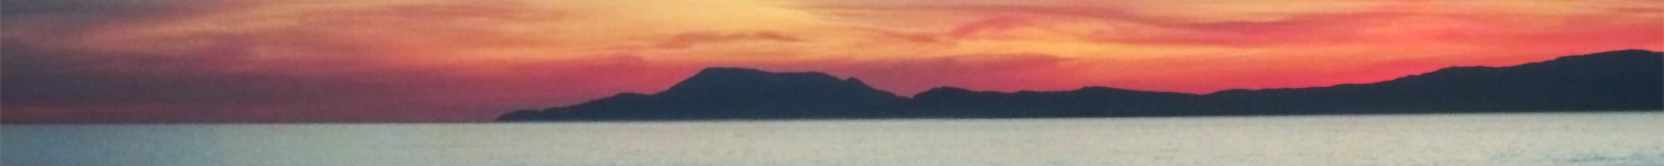
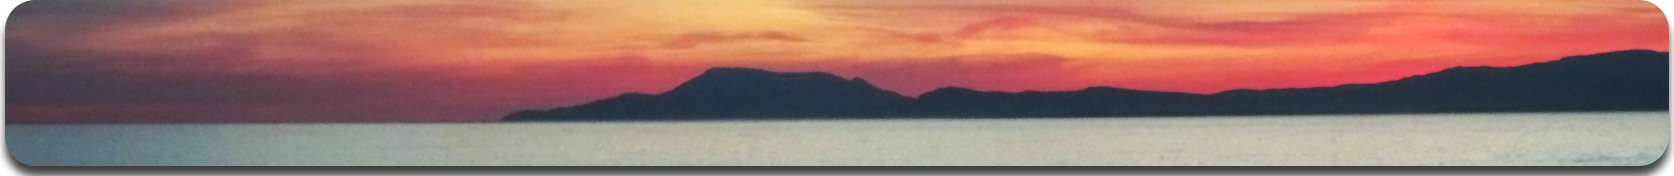
Updates

diff --git a/404.html b/404.html
@@ -7,34 +7,41 @@
 	<meta charset="utf-8">
 	<meta http-equiv="X-UA-Compatible" content="IE=edge,chrome=1">
 
-	<title>Atlantic Way Apartments - 404</title>
-	<meta name="Atlantic Way Apartments - 404" content="">
+	<title>Atlantic Way Apartments - {{ page.title }}</title>
+	<meta name="Atlantic Way Apartments - {{ page.title }}" content="">
 	<meta name="Paul Burke" content="">
 
 	<meta name="viewport" content="width=device-width">
 
-	<link rel="stylesheet" href="css/style.css">
+	<link rel="stylesheet" href="http://atlanticway.info/css/style.css">
+	<link rel="stylesheet" type="text/css" href="http://atlanticway.info/css/skin.css" />
 
-	<script src="js/libs/modernizr-2.5.3-respond-1.1.0.min.js"></script>
+	<script type="text/javascript" src="http://atlanticway.info/js/libs/jquery-1.4.2.min.js"></script>
+	<script type="text/javascript" src="http://atlanticway.info/js/libs/jquery.jcarousel.min.js"></script>
+	<script type="text/javascript" src="http://atlanticway.info/js/libs/modernizr-2.5.3-respond-1.1.0.min.js"></script>
+
 </head>
 <body>
 <!--[if lt IE 7]><p class=chromeframe>Your browser is <em>ancient!</em> <a href="http://browsehappy.com/">Upgrade to a different browser</a> or <a href="http://www.google.com/chromeframe/?redirect=true">install Google Chrome Frame</a> to experience this site.</p><![endif]-->
 
 	<div id="header-container">
 		<header class="wrapper clearfix">
-			<a href="index.html"><h1 id="title">Atlantic Way Apartments</h1></a>
+			<a href="http://atlanticway.info/index.html"><h1 id="title">Atlantic Way Apartments</h1></a>
 			<nav>
 				<ul>
-					<li><a href="news.html">News</a></li>
-					<li><a href="events.html">Events</a></li>
-					<li><a href="cameras.html">Cameras</a></li>
+					<li><a href="http://atlanticway.info/news.html">News</a></li>
+					<li><a href="http://atlanticway.info/events.html">Events</a></li>
+					<li><a href="http://atlanticway.info/cameras.html">Cameras</a></li>
 				</ul>
 			</nav>
 		</header>
 	</div>
 	<div id="main-container">
+
 		<div id="main" class="wrapper clearfix">
-			
+					<div id="header-picture">
+						<pic><img src="http://atlanticway.info/img/header.png" alt="Slieve League" align="center" width = "100%" /></pic>
+					</div>
 			<article>
 				<header>
 					<h1>Wrong Turn</h1>
@@ -42,27 +49,35 @@
 				<header>
 			</article>
 			
-			<aside>
-				<h3>aside</h3>
-				<p>Lorem ipsum dolor sit amet, consectetur adipiscing elit. Aliquam sodales urna non odio egestas tempor. Nunc vel vehicula ante. Etiam bibendum iaculis libero, eget molestie nisl pharetra in. In semper consequat est, eu porta velit mollis nec. Curabitur posuere enim eget turpis feugiat tempor. Etiam ullamcorper lorem dapibus velit suscipit ultrices.</p>
-			</aside>
-			
+			{% for post in site.posts %}
+   				{% if post.categories contains 'event' %}
+					</br>
+					<aside>
+					<h2><a href="{{ post.url }}">{{ post.date }}</a></h2>
+						{{ post.title }}
+					</aside>
+			  	{% endif %}
+			{%endfor%}
+
+
+				{{ content }}			
 		</div> <!-- #main -->
+		<div class="clearfooter"></div>
 	</div> <!-- #main-container -->
 
 	<div id="footer-container">
 		<footer class="wrapper">
 			<div align="right">
-				<a href="http://www.github.com" target="_blank"><img src="img/github.png" alt="Github"/></a>
-				<a href="http://jekyllrb.com/" target="_blank"><img src="img/jekyll.png" alt="Jekyll" /></a>
+				<a href="http://www.github.com" target="_blank"><img src="http://atlanticway.info/img/github.png" alt="Github"/></a>
+				<a href="http://jekyllrb.com/" target="_blank"><img src="http://atlanticway.info/img/jekyll.png" alt="Jekyll" /></a>
 				<h4>Designed by Paul Burke</h4>
 			</div>
 		</footer>
 	</div>
 
 <script src="//ajax.googleapis.com/ajax/libs/jquery/1.7.2/jquery.min.js"></script>
-<script>window.jQuery || document.write('<script src="js/libs/jquery-1.7.2.min.js"><\/script>')</script>
+<script>window.jQuery || document.write('<script src="http://atlanticway.info/js/libs/jquery-1.7.2.min.js"><\/script>')</script>
 
-<script src="js/script.js"></script>
+<script src="http://atlanticway.info/js/script.js"></script>
 </body>
 </html>

diff --git a/2012/02/15/First-Order-of-Business/index.html b/2012/02/15/First-Order-of-Business/index.html
@@ -29,9 +29,9 @@
 			<a href="http://atlanticway.info/index.html"><h1 id="title">Atlantic Way Apartments</h1></a>
 			<nav>
 				<ul>
-					<li><a href="news.html">News</a></li>
-					<li><a href="events.html">Events</a></li>
-					<li><a href="cameras.html">Cameras</a></li>
+					<li><a href="http://atlanticway.info/news.html">News</a></li>
+					<li><a href="http://atlanticway.info/events.html">Events</a></li>
+					<li><a href="http://atlanticway.info/cameras.html">Cameras</a></li>
 				</ul>
 			</nav>
 		</header>

diff --git a/2012/02/27/Mailboxes/index.html b/2012/02/27/Mailboxes/index.html
@@ -29,9 +29,9 @@
 			<a href="http://atlanticway.info/index.html"><h1 id="title">Atlantic Way Apartments</h1></a>
 			<nav>
 				<ul>
-					<li><a href="news.html">News</a></li>
-					<li><a href="events.html">Events</a></li>
-					<li><a href="cameras.html">Cameras</a></li>
+					<li><a href="http://atlanticway.info/news.html">News</a></li>
+					<li><a href="http://atlanticway.info/events.html">Events</a></li>
+					<li><a href="http://atlanticway.info/cameras.html">Cameras</a></li>
 				</ul>
 			</nav>
 		</header>

diff --git a/2012/03/19/Date-for-the-Diary/index.html b/2012/03/19/Date-for-the-Diary/index.html
@@ -29,9 +29,9 @@
 			<a href="http://atlanticway.info/index.html"><h1 id="title">Atlantic Way Apartments</h1></a>
 			<nav>
 				<ul>
-					<li><a href="news.html">News</a></li>
-					<li><a href="events.html">Events</a></li>
-					<li><a href="cameras.html">Cameras</a></li>
+					<li><a href="http://atlanticway.info/news.html">News</a></li>
+					<li><a href="http://atlanticway.info/events.html">Events</a></li>
+					<li><a href="http://atlanticway.info/cameras.html">Cameras</a></li>
 				</ul>
 			</nav>
 		</header>

diff --git a/2012/03/25/Electric Switches/index.html b/2012/03/25/Electric Switches/index.html
@@ -29,9 +29,9 @@
 			<a href="http://atlanticway.info/index.html"><h1 id="title">Atlantic Way Apartments</h1></a>
 			<nav>
 				<ul>
-					<li><a href="news.html">News</a></li>
-					<li><a href="events.html">Events</a></li>
-					<li><a href="cameras.html">Cameras</a></li>
+					<li><a href="http://atlanticway.info/news.html">News</a></li>
+					<li><a href="http://atlanticway.info/events.html">Events</a></li>
+					<li><a href="http://atlanticway.info/cameras.html">Cameras</a></li>
 				</ul>
 			</nav>
 		</header>

diff --git a/2012/04/17/Lifts-(or-lack-thereof)/index.html b/2012/04/17/Lifts-(or-lack-thereof)/index.html
@@ -29,9 +29,9 @@
 			<a href="http://atlanticway.info/index.html"><h1 id="title">Atlantic Way Apartments</h1></a>
 			<nav>
 				<ul>
-					<li><a href="news.html">News</a></li>
-					<li><a href="events.html">Events</a></li>
-					<li><a href="cameras.html">Cameras</a></li>
+					<li><a href="http://atlanticway.info/news.html">News</a></li>
+					<li><a href="http://atlanticway.info/events.html">Events</a></li>
+					<li><a href="http://atlanticway.info/cameras.html">Cameras</a></li>
 				</ul>
 			</nav>
 		</header>

diff --git a/2012/05/15/Dates-and-Updates/index.html b/2012/05/15/Dates-and-Updates/index.html
@@ -29,9 +29,9 @@
 			<a href="http://atlanticway.info/index.html"><h1 id="title">Atlantic Way Apartments</h1></a>
 			<nav>
 				<ul>
-					<li><a href="news.html">News</a></li>
-					<li><a href="events.html">Events</a></li>
-					<li><a href="cameras.html">Cameras</a></li>
+					<li><a href="http://atlanticway.info/news.html">News</a></li>
+					<li><a href="http://atlanticway.info/events.html">Events</a></li>
+					<li><a href="http://atlanticway.info/cameras.html">Cameras</a></li>
 				</ul>
 			</nav>
 		</header>

diff --git a/2012/06/02/New-Website/index.html b/2012/06/02/New-Website/index.html
@@ -29,9 +29,9 @@
 			<a href="http://atlanticway.info/index.html"><h1 id="title">Atlantic Way Apartments</h1></a>
 			<nav>
 				<ul>
-					<li><a href="news.html">News</a></li>
-					<li><a href="events.html">Events</a></li>
-					<li><a href="cameras.html">Cameras</a></li>
+					<li><a href="http://atlanticway.info/news.html">News</a></li>
+					<li><a href="http://atlanticway.info/events.html">Events</a></li>
+					<li><a href="http://atlanticway.info/cameras.html">Cameras</a></li>
 				</ul>
 			</nav>
 		</header>

diff --git a/2012/06/23/Barbeque/index.html b/2012/06/23/Barbeque/index.html
@@ -29,9 +29,9 @@
 			<a href="http://atlanticway.info/index.html"><h1 id="title">Atlantic Way Apartments</h1></a>
 			<nav>
 				<ul>
-					<li><a href="news.html">News</a></li>
-					<li><a href="events.html">Events</a></li>
-					<li><a href="cameras.html">Cameras</a></li>
+					<li><a href="http://atlanticway.info/news.html">News</a></li>
+					<li><a href="http://atlanticway.info/events.html">Events</a></li>
+					<li><a href="http://atlanticway.info/cameras.html">Cameras</a></li>
 				</ul>
 			</nav>
 		</header>

diff --git a/events.html b/events.html
@@ -29,9 +29,9 @@
 			<a href="http://atlanticway.info/index.html"><h1 id="title">Atlantic Way Apartments</h1></a>
 			<nav>
 				<ul>
-					<li><a href="news.html">News</a></li>
-					<li><a href="events.html">Events</a></li>
-					<li><a href="cameras.html">Cameras</a></li>
+					<li><a href="http://atlanticway.info/news.html">News</a></li>
+					<li><a href="http://atlanticway.info/events.html">Events</a></li>
+					<li><a href="http://atlanticway.info/cameras.html">Cameras</a></li>
 				</ul>
 			</nav>
 		</header>

diff --git a/index.html b/index.html
@@ -29,9 +29,9 @@
 			<a href="http://atlanticway.info/index.html"><h1 id="title">Atlantic Way Apartments</h1></a>
 			<nav>
 				<ul>
-					<li><a href="news.html">News</a></li>
-					<li><a href="events.html">Events</a></li>
-					<li><a href="cameras.html">Cameras</a></li>
+					<li><a href="http://atlanticway.info/news.html">News</a></li>
+					<li><a href="http://atlanticway.info/events.html">Events</a></li>
+					<li><a href="http://atlanticway.info/cameras.html">Cameras</a></li>
 				</ul>
 			</nav>
 		</header>

diff --git a/news.html b/news.html
@@ -29,9 +29,9 @@
 			<a href="http://atlanticway.info/index.html"><h1 id="title">Atlantic Way Apartments</h1></a>
 			<nav>
 				<ul>
-					<li><a href="news.html">News</a></li>
-					<li><a href="events.html">Events</a></li>
-					<li><a href="cameras.html">Cameras</a></li>
+					<li><a href="http://atlanticway.info/news.html">News</a></li>
+					<li><a href="http://atlanticway.info/events.html">Events</a></li>
+					<li><a href="http://atlanticway.info/cameras.html">Cameras</a></li>
 				</ul>
 			</nav>
 		</header>
